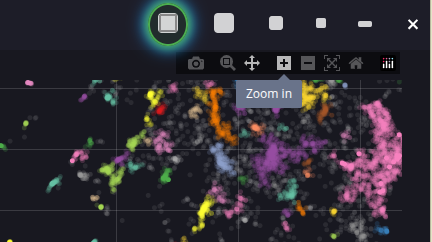
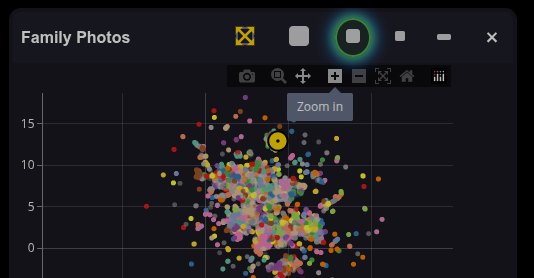
bring intro image up to date

diff --git a/docs/stylesheets/extra.css b/docs/stylesheets/extra.css
@@ -13,6 +13,7 @@
   display: flex;
   align-items: center;
   gap: 8px;
+}
 
 .photomap-overlay-container {
   position: relative;

diff --git a/README.md b/README.md
@@ -4,9 +4,9 @@ Rediscover your photo collection!
 
 PhotoMapAI is a fast, modern image browser and search tool for large photo collections. It uses the CLIP computer vision model to enable text and image-based search, image clustering, and interactive slideshows with a responsive web interface. Its unique feature is a "semantic map" that clusters and visualizes your images by their content. Browse the semantic map to find and explore thematically-related groups of photos, or use text and/or image similarity search to find specific people, places, events, styles and themes.
 
-<a href="https://photomap.4crabs.org" target="_new">Try it out.</a>
 
 ## Features
+
 - Fast browsing of large image collections
 - All images are local to your computer; nothing goes out to the internet
 - AI-based text and image similarity search
@@ -17,11 +17,17 @@ PhotoMapAI is a fast, modern image browser and search tool for large photo colle
 - Integration with the <a href="https://github.com/invoke-ai/InvokeAI">InvokeAI</a> AI image generation system
 - Extensible backend (FastAPI)
 
+<a href="https://photomap.4crabs.org" target="_new">
+<div >
+   <span style="font-size:1.5em">Try it out!</span>
+</div>
+</a>
+
 ## The Semantic Map
 
 PhotoMap's unique feature is its ability to identify thematically similar images and automatically cluster them, creating a "semantic map":
 
-<img src="https://github.com/lstein/PhotoMapAI/blob/master/docs/img/photomap_big_semantic_map.png?raw=true" alt="Big Semantic Map" class="img-hover-zoom">
+<img src="https://github.com/lstein/PhotoMapAI/blob/master/docs/img/photomap_intro.png?raw=true" alt="Big Semantic Map" class="img-hover-zoom">
 
 In this map, each image in the photo collection is represented as a dot. The colors distinguish different clusters of related images. You can zoom in and out of the map and pan around it. Hover the mouse over a dot in order to see a preview thumbnail of its image, or click on a cluster to view its contents at full resolution.
 
@@ -41,6 +47,8 @@ When viewing a photo in full-screen mode, you can pop out a little drawer to sho
 
 <img src="https://github.com/lstein/PhotoMapAI/blob/master/docs/img/photomap_metadata.png?raw=true" alt="Image Metadata" class="img-hover-zoom">
 
+### InvokeAI Support
+
 If you are a user of the [InvokeAI](https://github.com/invoke-ai/InvokeAI) text-to-image generation tool, you can get quick access to the key settings used to generate the image, including the prompts, model and LoRAs in use, and the input images used for IPAdapters, ControlNets and the img2img raster layer. You can also display and copy the full generation graph in native JSON format and copy it to the clipboard.
 
 <img src="https://github.com/lstein/PhotoMapAI/blob/master/docs/img/photomap_invokeai.png?raw=true" alt="InvokeAI Metadata" class="img-hover-zoom">
@@ -53,7 +61,7 @@ PhotoMap supports most of the other features you would expect, including support
 
 ## Quick Start
 
-Here are quick start instructions for Windows, Mac and Linux users using the automated installer scripts that are provided with this package. For instructions on manual installation, see [Installation](https://lstein.github.io/PhotoMapAI/installation/). 
+Here are quick start instructions for Windows, Mac and Linux users using the automated installer scripts that are provided with this package. For instructions on manual installation, see [Installation](https://lstein.github.io/PhotoMapAI/installation/).
 
 ### Windows
 
@@ -75,11 +83,11 @@ attempt to download and install them on your behalf. You will need to relaunch t
 
 #### 4. Start the server
 
-Double-click `start_photomap.bat` to launch the server. You should see a few startup messages, followed by the URL for the running server. 
+Double-click `start_photomap.bat` to launch the server. You should see a few startup messages, followed by the URL for the running server.
 
+#### 5. **Open your browser:**
 
-#### 5. **Open your browser:**  
-   Navigate to `http://localhost:8050` and follow the prompts to create and populate your first album.
+Navigate to `http://localhost:8050` and follow the prompts to create and populate your first album.
 
 ---
 
@@ -99,9 +107,9 @@ Navigate to the `PhotoMap` folder and launch the `install_linux_mac` shell scrip
 
 Double click `start_photomap` to launch the server. You will see a few startup messages followed by the URL for the running server.
 
-#### 4. **Open your browser:**  
-   Navigate to `http://localhost:8050` and follow the prompts to create and populate your first album.
+#### 4. **Open your browser:**
 
+Navigate to `http://localhost:8050` and follow the prompts to create and populate your first album.
 
 ### Manual Install
 
@@ -111,11 +119,11 @@ Follow these instructions if you are comfortable with installing Python packages
 
 Make sure that your version of Python is between 3.10 and 3.12. Not all required libraries are available in 3.13.
 
-   python3 -m venv ~/photomap --prompt photomap
-   source ~/photomap/bin/activate
-   python3 -m pip install --upgrade pip
-   pip install photomapai
-   start_photomap
+python3 -m venv ~/photomap --prompt photomap
+source ~/photomap/bin/activate
+python3 -m pip install --upgrade pip
+pip install photomapai
+start_photomap
 
 Then open your web browser and point it to [http://127.0.0.1:8050](http://128.0.0.1:8050). Follow the prompts to create your first album.
 
@@ -123,15 +131,16 @@ Then open your web browser and point it to [http://127.0.0.1:8050](http://128.0.
 
 Make sure that your version of Python is between 3.10 and 3.12. Not all required libraries are available in 3.13. Also make sure that Python is on your PATH.
 
-   python3 -m venv C:\Users\<your name>\Documents\photomap --prompt photomap
-   C:\Users\<your name>\Documents\photomap\Scripts\activate
-   python3 -m pip install --upgrade pip
-   pip install photomapai
-   start_photomap
+python3 -m venv C:\Users\<your name>\Documents\photomap --prompt photomap
+C:\Users\<your name>\Documents\photomap\Scripts\activate
+python3 -m pip install --upgrade pip
+pip install photomapai
+start_photomap
 
 Then open your web browser and point it to [http://127.0.0.1:8050](http://128.0.0.1:8050). Follow the prompts to create your first album.
 
 ## Detailed Guides
+
 - [Installation](https://lstein.github.io/PhotoMapAI/installation/)
 - [User Guide](https://lstein.github.io/PhotoMapAI/user-guide/basic-usage/)
 - [Configuration](https://lstein.github.io/PhotoMapAI/user-guide/configuration/)

diff --git a/docs/user-guide/semantic-map.md b/docs/user-guide/semantic-map.md
@@ -24,13 +24,16 @@ What does "semantically similar" mean? Embeddings capture many different aspects
 
 Therefore you will find clusters that contain a mixture of relationships. Sometimes you will find yourself scratching your head to figure out why several images cluster together, but more often you'll discover delightfully unexpected groupings. For example, my family photo collection contains clusters corresponding to "kids climbing trees," "pets yawning," and "weddings on the maternal side of the family."
 
+---
+
 ## Navigating the Map
 
 When you first open the map it will be zoomed almost all the way out. You will likely wish to increase the zoom level in order to see more detail. This is intuitive when using a mouse. The scrollwheel will zoom in and out, while clicking and dragging on the map will move the map around (panning). 
 
+There is also a hidden navigation bar at the top of the plot that appears when you hover the mouse pointer over it. From left to right, the icons have the following functions:
+
 <img src="../../img/photomap_semantic_map_umap_navigation_bar.png" width="480" alt="Semantic Map" class="img-hover-zoom">
 
-There is also a navigation bar at the top of the plot that appears when you hover over it. From left to right, the icons have the following functions:
 
 - **Camera Icon** - Snapshot the current map and save it to disk as a PNG image.
 - **Magnifier Icon** - Outline a rectangular region of the map and zoom into it.
@@ -41,6 +44,21 @@ There is also a navigation bar at the top of the plot that appears when you hove
 - **Plotly Icon** - Advertisement for the plotting package used to plot the map.
 
 On tablet devices, the best way to zoom into an area of interest is to use the magnifier icon and/or a combination of the pan tool and the Zoom in/out icons.
+
+---
+
+## Moving and Resizing the Map Window
+
+The map window can be repositioned anywhere on the screen by clicking and dragging on its titlebar. It can be resized by clicking the resize icons shown in the screenshot below (mouse over to see the legend).
+
+<div class="photomap-overlay-container">
+  <img src="../../img/photomap_semantic_map_sizing_base.png" width="480" class="photomap-base" alt="Base image">
+  <img src="../../img/photomap_semantic_map_sizing_overlay.png" width="480" class="photomap-overlay" alt="Overlay image">
+</div>
+
+The sizes shown are approximate and are adjusted for different size browser windows. The full-screen size (the leftmost icon) covers the entire window and is opaque. Other sizes are slightly transparent to allow you to see the full-size images beneath.
+
+The shade icon (rightmost) collapses the window so that only the titlebar is visible. This is convenient for temporarily uncluttering the screen.
 
 ## Controlling Thumbnail Images
 
@@ -62,21 +80,16 @@ With "Show hover thumbnails" turned on and "Show landmarks" turned off:
 
 By default, landmarks will be turned on and hover images turned off when you enter the map's fullscreen mode. The opposite happens when  you leave fullscreen mode and enter windowed mode. See below for more information on window modes and sizes.
 
+---
+
 ## Selecting Clusters
 
 Clicking on any colored image dot or a landmark preview will select all the images in its cluster and add them to the main display's search results. You will see the selected cluster become brighter, while all the other clusters will dim. This effect can be turned on and off by clicking on the checkbox in the bottom right corner labeld "Highlight selection."
 
 When a cluster is selected, the image search results will be sorted according to their distance from the image you clicked on in the semantic map. If you leave the semantic map window open and scroll through the results, you will see the yellow map position marker move increasingly far away from the original point. At the same time, the displayed full-size images will slowly diverge and become more diverse.
 
-## Moving the Map Window
+### Unclustered Images
 
-The map window can be repositioned anywhere on the screen by clicking and dragging on its titlebar. In addition it can be resized by clicking the resize icons shown in the screenshot below (mouse over to see the legend).
+There will often be images that can't be assigned to any cluster. These appear as light gray dots in scatterplot. Click on one of these to highlight the unclustered images and browse through them.
 
-<div class="photomap-overlay-container">
-  <img src="../../img/photomap_semantic_map_sizing_base.png" width="480" class="photomap-base" alt="Base image">
-  <img src="../../img/photomap_semantic_map_sizing_overlay.png" width="480" class="photomap-overlay" alt="Overlay image">
-</div>
-
-The sizes shown are approximate and are adjusted for different size browser windows. The full-screen size (the leftmost icon) covers the entire window and is opaque. Other sizes are slightly transparent to allow you to see the full-size images beneath.
-
-The shade icon (rightmost) collapses the window so that only the titlebar is visible. This is convenient for temporarily uncluttering the screen.
+You can decrease the number of unclustered images by increasing EPS. This will cluster the images more aggressively and also merge existing clusters. Experiment until you find the setting that works best for you.

diff --git a/docs/index.md b/docs/index.md
@@ -44,11 +44,13 @@ PhotoMapAI lets you search your collection by similarity to another image, by te
 
 You can start an image similarity search by uploading a local image file, dragging an image from a web browser window or file browser, or by selecting an existing image from your collection. There's also a "Text to Avoid" field, which can be used to disfavor certain image content.
 
-## Support for Image Metadata
+## Photo Metadata Display
 
 When viewing a photo in full-screen mode, you can pop out a little drawer to show its metadata, including the GPS location (if available), and the camera/phone settings:
 
 <img src="img/photomap_metadata.png" alt="Image Metadata" class="img-hover-zoom">
+
+### InvokeAI Metadata Support
 
 If you are a user of the [InvokeAI](https://github.com/invoke-ai/InvokeAI) text-to-image generation tool, you can get quick access to the key settings used to generate the image, including the prompts, model and LoRAs in use, and the input images used for IPAdapters, ControlNets and the img2img raster layer. You can also display the full generation metadata in native JSON format and copy it to the clipboard.
 
